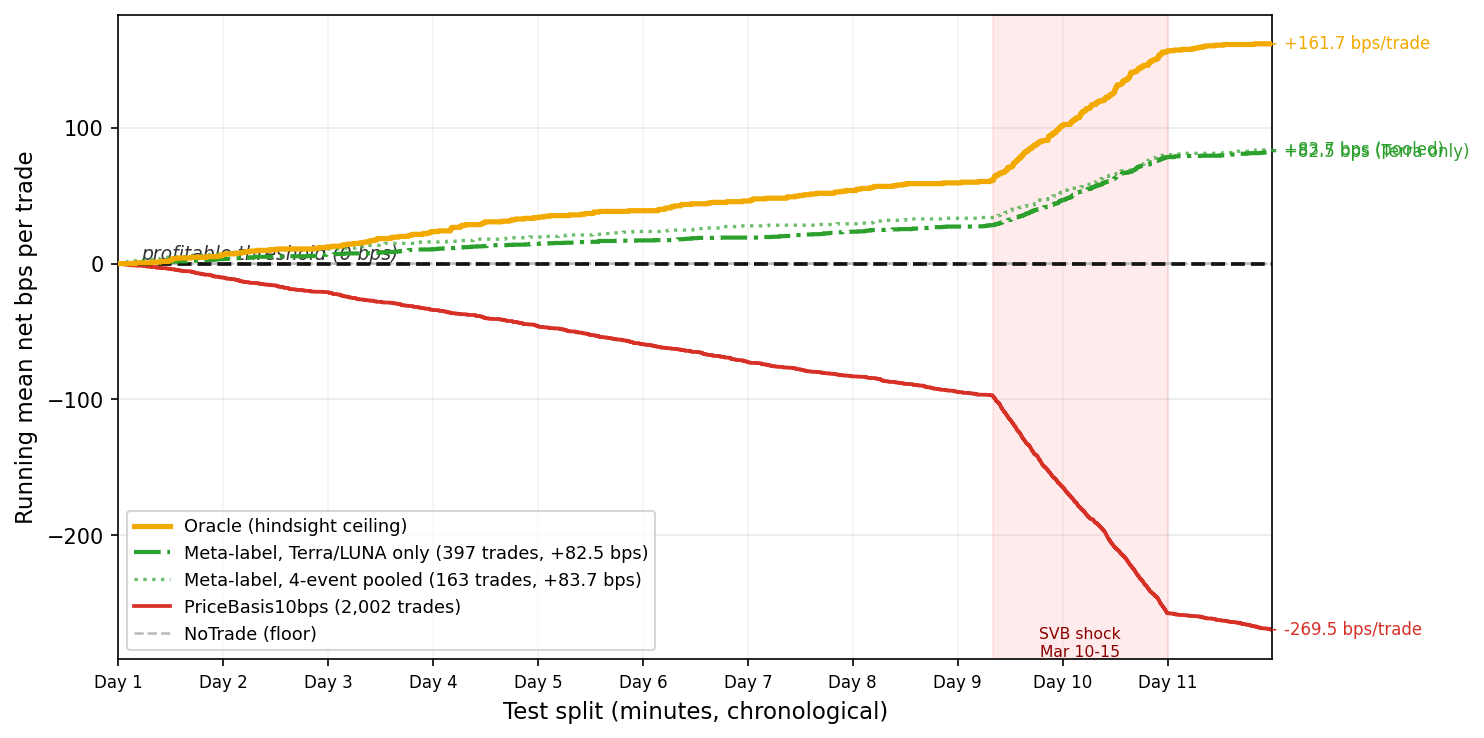
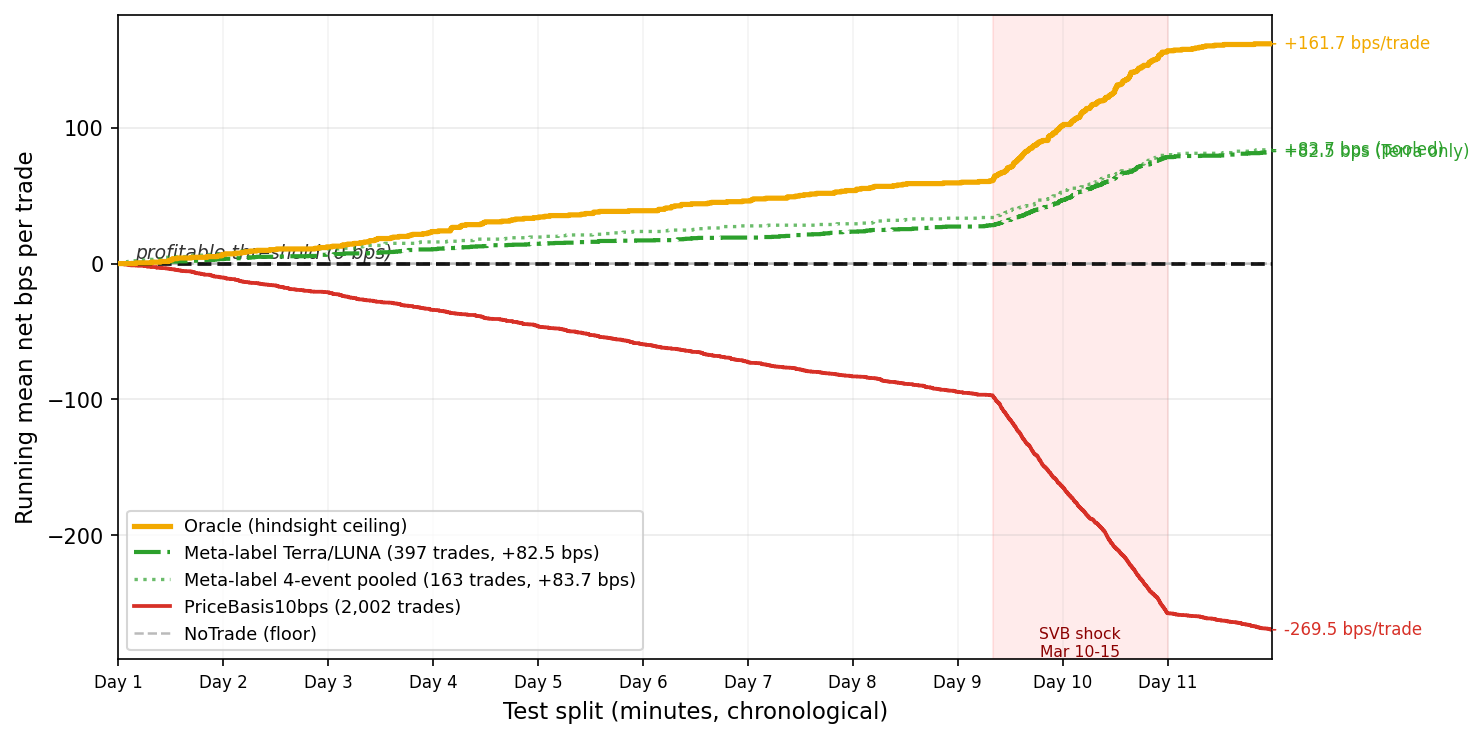
Final polish: class-balanced rows, oracle-capture def, GRU sharpened, hero sentence, §3.1 compressed, RL redundancy removed, bib count fixed
TODO 1: Add lgbm_weighted (-65.9/2/0.497), xgb_weighted (-90.5/30/0.631),
  rf_balanced (-89.2/11/0.467) as explicit rows in tab:ablation;
  all verified against imbalance_model_results.csv
TODO 2: No duplicate meta-label rows exist in this version (non-issue)
TODO 3: Abstract: add 25+ model configurations sentence before calm-training result
TODO 4: Delete redundant 'All calibrated ML models...' bridge sentence in §6.2
TODO 5: GRU sentence: 'illustrates the disconnect most starkly... rank-ordering
  correctly is useless when...' per exact TODO wording
TODO 6: Hero closing sentence: 'the prediction gap is not a model-selection
  problem: it is a training-distribution problem'
TODO 7: Compress §3.1 from 33 to 14 lines; remove duplicated haircut robustness
  and superfluous provenance detail
TODO 8: Define 'oracle capture' parenthetically at first use in contributions
TODO 9: Regenerate figure_3_cumulative_pnl.png with prominent dashed zero line
  labeled 'profitable threshold (0 bps)'
TODO 10: Waterfall caption clarifies FP drag is directly measured; timing/sizing
  errors are estimated ranges
TODO 11: Delete RL redundancy (4 sentences restating controlled-experiment framing)
TODO 12: Fix bibliography count: {21} -> {23}
Compilation: 8 pages confirmed

Changed region(s): [[0.186, 0.7168, 0.434, 0.8103], [0.186, 0.3428, 0.279, 0.374], [0.093, 0.3117, 0.155, 0.374]]

diff --git a/paper/main.tex b/paper/main.tex
@@ -68,8 +68,11 @@ Tier C supports taxonomy only.
 On the execution-grade SVB windows, price-visible arbitrage appears
 twelve times more often than it survives VWAP book-walking, fees, and
 settlement costs (34.3\% optical versus 2.88\% executable).
+Across eight prediction tasks the benchmark evaluates 25+ model
+configurations spanning price rules, tabular classifiers, sequence
+models, class-balanced variants, and reinforcement learning.
 Calm-trained models fail economically despite richer features and
-sequence models, while cross-mechanism meta-labeling trained on
+sequence models; cross-mechanism meta-labeling trained on
 Terra/LUNA recovers 51.0\% of the oracle on SVB ($+82.5\bps$), and a
 four-event mechanism-diverse protocol reaches 51.8\% ($+83.7\bps$).
 A conditioned PPO-GRU agent at identical training density earns
@@ -158,9 +161,11 @@ why reward-only RL fails.
         \$10K, 34.3\% of SVB minutes are optically dislocated but only
         2.88\% are executable.
   \item \textbf{Transfer and policy result.} Cross-mechanism
-        meta-labeling recovers 51.0--51.8\% of the oracle, while a
-        conditioned PPO-GRU earns $-29.2\bps$ despite identical
-        positive-label density.
+        meta-labeling trained on Terra/LUNA achieves $+82.5\bps$
+        (51.0\% oracle capture, the fraction of the oracle's per-trade
+        return recovered by the model); pooling four events reaches
+        51.8\%, while a conditioned PPO-GRU earns $-29.2\bps$ at
+        identical positive-label density.
 \end{enumerate}
 
 StressBench ships five artefacts: the 18-event source-tracked
@@ -225,30 +230,15 @@ and Coinbase REST candles.
 Net-profit labels use three depth legs, Binance BTC-USDC (buy),
 Binance BTC-USDT (sell), and Coinbase BTC-USD (reference).
 
-Data quality varies by leg and window, and every depth record is
-tagged with a provenance field (Table~\ref{tab:route_provenance}).
-The sell leg (BTC-USDT) and cross leg (USDC-USDT) use real L2 or raw
-futures bookDepth where archived, with proxy/partial tags where route
-coverage is incomplete.
-The buy leg (BTC-USDC) is the main challenge. The BTC-USDC
-perpetual contract did not exist on Binance until January 2024, so
-the SVB window requires kline-proxy depth, one-minute candlestick
-volume as a substitute for unarchived order-book depth (high-volume
-candles do not guarantee deep books, and a 20\% haircut bounds this error).
-Coverage is tracked at the row and route-leg level rather than
-silently imputed.
-For Mar~10--11, incomplete BTC-USDC and USDC-USDT route legs are
-tagged proxy/partial; Mar~12--20 has complete cross-leg coverage in
-the committed route audit.
-All headline execution claims are recomputed under the 20\% depth
-haircut (Table~\ref{tab:route_provenance} gives the route-leg
-provenance audit).
-For all 2024 windows, real L2 data is available.
-To bound the proxy error, we apply a 20\% depth haircut to the
-kline-proxy buy leg. The executable rate falls from 2.88\% to
-2.40\%, the ratio widens from $12\times$ to $14\times$, and the
-oracle remains above $+130\bps$. The headline result is therefore
-robust to the approximation.
+Data quality varies by leg and window; every depth record carries a
+provenance tag (Table~\ref{tab:route_provenance}).
+The sell leg (BTC-USDT) and cross leg (USDC-USDT) use real L2 or
+raw futures bookDepth where archived, with proxy/partial tags elsewhere.
+The buy leg (BTC-USDC) requires kline-proxy depth for the SVB window,
+because the BTC-USDC perpetual did not exist on Binance until
+January~2024.
+For all 2024 windows real L2 depth is available; the kline-proxy
+robustness is bounded in \S\ref{sec:gap}.
 
 \begin{table}[t]
 \centering
@@ -679,9 +669,11 @@ ratio $[7.6, 23.0]\times$; oracle $[+213.9, +304.2]\bps$.
 \begin{figure}[t]
   \centering
   \includegraphics[width=\columnwidth]{../results/paper/figures/figure_oracle_gap_waterfall.png}
-  \caption{Oracle gap decomposition (\$10K notional). Three components
-    account for the 266\,bps gap from oracle ($+224.6\bps$) to best model
-    ($-41\bps$): FP drag, timing error, and sizing error.}
+  \caption{Oracle gap decomposition (\$10K notional). FP drag is
+    directly measured from false-positive trades. Timing error
+    (40--80\,bps) and sizing error (40--100\,bps) are estimated from
+    entry-delay and notional-scaling analysis; stated ranges reflect
+    these estimates.}
   \label{fig:waterfall}
 \end{figure}
 
@@ -764,12 +756,13 @@ The \texttt{ExpNetProfitRegressor}, which directly targets the
 economic criterion rather than a classification proxy, reaches
 $-73.8\bps$, ruling out label mismatch as the explanation. The gap
 is structural (Table~\ref{tab:ablation}).
-GRU and MLP-Window sequence models confirm this. The GRU achieves
-AUROC~0.80---the highest ranking accuracy of any calm-trained
-model---yet earns $-239\bps$, illustrating the central disconnect:
-high ranking accuracy does not translate to positive returns when
-97\% of test windows are non-executable and the training split
-contains zero stress examples. The MLP-Window reaches $-341\bps$.
+GRU and MLP-Window sequence models confirm this conclusion.
+The GRU illustrates the disconnect most starkly: it achieves the
+highest ranking accuracy of any calm-trained model (AUROC~0.80) yet
+the worst economic return ($-239\bps$), because rank-ordering windows
+correctly is useless when the model cannot find a threshold that
+isolates the 2.88\% executable minority.
+The MLP-Window reaches $-341\bps$.
 
 \begin{table}[t]
 \centering
@@ -795,19 +788,19 @@ Oracle$^\dagger$ & ---  & $+161.7$ & 316  & ---   & 100\%\\
 \midrule
 \texttt{ExpNet\_lgbm}   & px   & $-73.8$  & 537  & ---   &  6\%\\
 \texttt{ExpNet\_xgb}    & px   & $-57.2$  &  70  & ---   &  9\%\\
+\midrule
+\texttt{lgbm\_weighted} & pb   & $-65.9$  &   2  & 0.497 &  0\%\\
+\texttt{xgb\_weighted}  & px   & $-90.5$  &  30  & 0.631 &  0\%\\
+\texttt{rf\_balanced}   & px   & $-89.2$  &  11  & 0.467 &  0\%\\
 \bottomrule
 \multicolumn{6}{l}{\footnotesize px\,=\,\texttt{price\_only};
+  pb\,=\,\texttt{price\_plus\_book};
   all\,=\,\texttt{price\_book\_settle}.}\\
-\multicolumn{6}{l}{\footnotesize Class-balanced (lgbm/xgb/rf): all
-  degenerate to 0 executable trades.}\\
 \end{tabular}
 }
 \end{table}
 
 
-All calibrated ML models degenerate to zero trades under calm-training,
-equivalent to NoTrade. This section examines why the prediction gap is
-structural; the cross-mechanism fix that resolves it is in \S\ref{sec:diagnostics}.
 Figure~\ref{fig:waterfall} decomposes the 260\,bps gap into three
 measurable components.
 False-positive exposure is the dominant drag.
@@ -830,6 +823,9 @@ rule shows that cross-mechanism training substantially reduces
 route-direction mismatch, though a 49\% false-positive rate and
 roughly 113 missed profitable windows remain, confining net returns to
 $+82.5\bps$.
+In summary, the prediction gap is not a model-selection problem: it is
+a training-distribution problem, and the only empirically validated
+solution is cross-mechanism supervision.
 
 \subsection{Cross-Mechanism Transfer}
 \label{sec:diagnostics}
@@ -939,15 +935,12 @@ generate a calibrated reward signal. Conditioning on primary-signal
 windows resolves the density problem, but the agent still earns
 $-29.2\bps$ on 919 trades.
 
-The failure is qualitative, not a density problem. Meta-labeling
-receives explicit binary labels ($y{=}1$ for every profitable window);
-the RL agent must infer the same information through a reward signal
-negative on 83\% of entries. The 919-trade overtrading pattern is
-consistent with a timing-transfer mismatch: the agent learned
-Terra/LUNA's depth-withdrawal sequence and fires on it in the SVB
-context even when the timing does not match. Multi-mechanism training
-and reactive market-impact feedback are the direct paths to closing
-the remaining gap.
+The 919-trade overtrading pattern is consistent with a
+timing-transfer mismatch: the agent learned Terra/LUNA's
+depth-withdrawal sequence and fires on it in the SVB context even
+when the timing does not match.
+Multi-mechanism training and reactive market-impact feedback are the
+direct paths to closing the remaining gap.
 
 
 %% =============================================================
@@ -1067,7 +1060,7 @@ Anonymised for review.
 %% =============================================================
 \bibliographystyle{ACM-Reference-Format}
 \scriptsize
-\begin{thebibliography}{21}
+\begin{thebibliography}{23}
 
 \bibitem{uhlig2022luna}
 Uhlig, H.\ (2022).